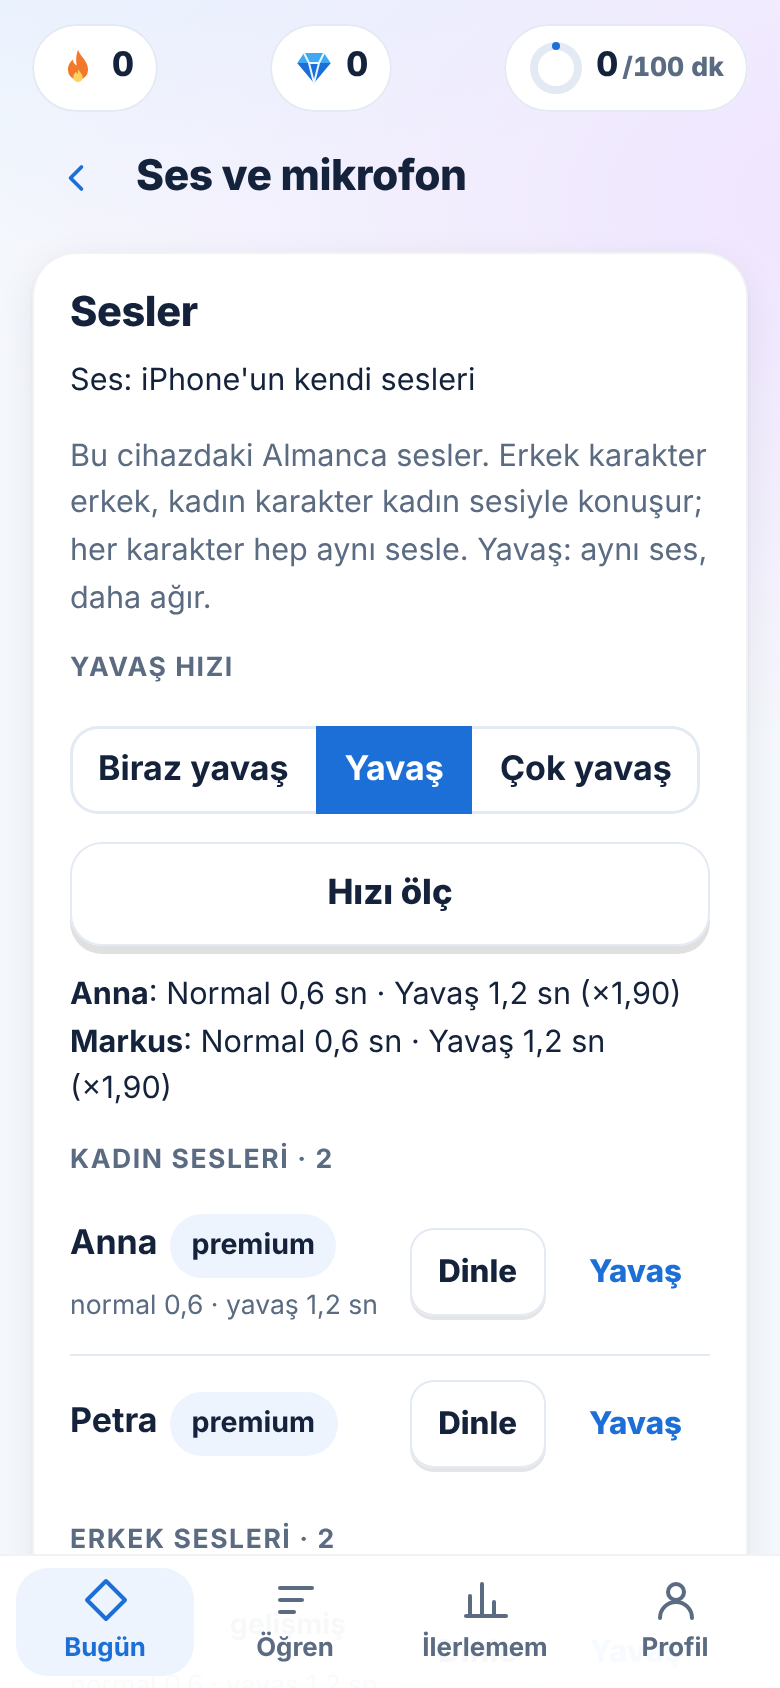
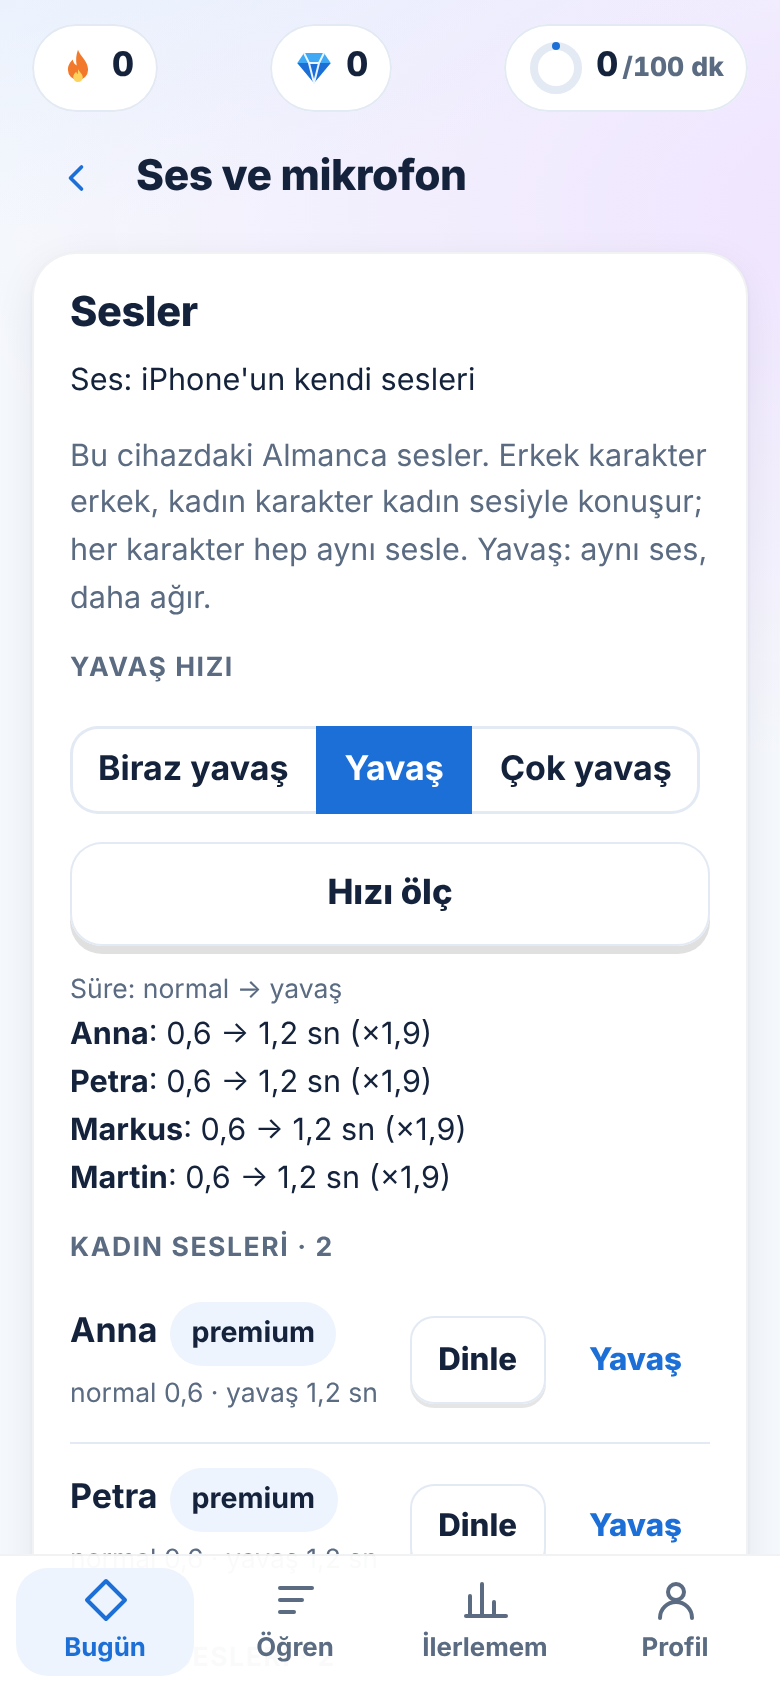
Ses ve mikrofon: ölçüm satırı kısa ve tek satır ('Markus: 0,6 → 1,2 sn (×1,9)'), başlıkta bir kez 'normal → yavaş' (PM 7044942991); iki yol aynı biçim
Claude-Session: https://claude.ai/code/session_016gishG3oMjbKiLi4Fij94B

diff --git a/web/src/screens/SesDeneme.tsx b/web/src/screens/SesDeneme.tsx
@@ -18,7 +18,7 @@ import { kabukBilgisi, kabukSatiri, type KabukBilgisi } from "../services/kabuk.
 const ORNEK = "Guten Morgen! Ich hätte gern einen Termin am Montag.";
 
 const sn = (ms: number) => `${(ms / 1000).toFixed(1).replace(".", ",")} sn`;
-const kat = (x: number) => `×${x.toFixed(2).replace(".", ",")}`;
+const kat = (x: number) => `×${x.toFixed(1).replace(".", ",")}`;
 const kisaAd = (n: string) => n.replace(/\s*\(.*\)$/, "");
 const sesNesnesi = (s: Ses) => sesBul(s);
 type Kayit = Record<string, HizOlcum>;
@@ -81,7 +81,9 @@ function HizOlcumu({ hedef, kayit, kaydet }: { hedef: Ses[]; kayit: Kayit; kayde
       <button class="btn block" disabled={olcuyor || !hedef.length} onClick={() => void olc()} data-test="hiz-olc">{olcuyor ? "Ölçülüyor…" : "Hızı ölç"}</button>
       {/* ölçüm sürerken yarım satır gösterilmez; sonuçlar düğmeden bir satır aşağıda (PM 7043447488-1, 2) */}
       {!olcuyor && (olculen.length > 0 || olculemedi.length > 0) && <div class="hiz-sonuclar" style={{ marginTop: 12 }}>
-        {olculen.filter((s) => !olculemedi.includes(sesAnahtar(s))).map((s) => { const o = kayit[sesAnahtar(s)]!; return <p class="small" style={{ margin: 0 }} data-test="hiz-sonuc" data-ad={s.name}><b>{kisaAd(s.name)}</b>: Normal {sn(o.normalMs)} · Yavaş {sn(o.yavasMs)} ({kat(hizOrani(o))})</p>; })}
+        {/* PM 7044942991: biçim kısa ve tek satır; başlık bir kez */}
+        <p class="tiny muted" style={{ margin: 0 }} data-test="hiz-baslik">Süre: normal → yavaş</p>
+        {olculen.filter((s) => !olculemedi.includes(sesAnahtar(s))).map((s) => { const o = kayit[sesAnahtar(s)]!; return <p class="small" style={{ margin: 0, whiteSpace: "nowrap" }} data-test="hiz-sonuc" data-ad={s.name}><b>{kisaAd(s.name)}</b>: {sn(o.normalMs).replace(" sn", "")} → {sn(o.yavasMs)} ({kat(hizOrani(o))})</p>; })}
         {hedef.filter((s) => olculemedi.includes(sesAnahtar(s))).map((s) => <p class="small" style={{ margin: 0 }} data-test="hiz-olculemedi" data-ad={s.name}><b>{kisaAd(s.name)}</b>: ölçülemedi, yeniden dene.</p>)}
       </div>}
       {!olcuyor && yavaslamayan.length > 0 && <p class="small fb-uyari" role="alert" data-test="hiz-uyari">Bu ses yavaşlamıyor: {yavaslamayan.map((s) => kisaAd(s.name)).join(", ")}. Yavaş istenince yavaşlayan başka bir ses, o da yoksa kelime kelime okuma kullanılır.</p>}

diff --git a/tests/e2e/v2_ses.py b/tests/e2e/v2_ses.py
@@ -80,18 +80,20 @@ def main():
         pg.wait_for_function("() => { const b = document.querySelector('[data-test=hiz-olc]'); return b && !b.disabled && document.querySelectorAll('[data-test=hiz-sonuc]').length >= 4; }", timeout=20_000)
         ara = pg.evaluate("() => { const b = document.querySelector('[data-test=hiz-olc]').getBoundingClientRect(); const r = document.querySelector('[data-test=hiz-sonuc]').getBoundingClientRect(); return Math.round(r.top - b.bottom); }")
         check(ara >= 10, f"sonuç satırları düğmeden ayrık (aralık {ara} px)")
+        tek = pg.evaluate("() => [...document.querySelectorAll('[data-test=hiz-sonuc]')].map((p) => { const lh = parseFloat(getComputedStyle(p).lineHeight); return [Math.round(p.getBoundingClientRect().height / lh), p.scrollWidth <= p.parentElement.clientWidth + 0.5]; })")
+        check(all(n == 1 and sig for n, sig in tek), f"sonuç satırları tek satır, taşmıyor; başlıkta bir kez 'normal → yavaş' ({tek}; {pg.inner_text('[data-test=hiz-baslik]')})")
         check(pg.evaluate("window.__oku.length") == 8, f"ölçüm her cinsten ilk iki sesi normal ve yavaş çaldı ({pg.evaluate('window.__oku.length')} çalma)")
         sonuc = {e["ad"]: e["t"] for e in pg.locator("[data-test=hiz-sonuc]").evaluate_all("(xs) => xs.map((x) => ({ ad: x.dataset.ad, t: x.innerText }))")}
-        check(set(sonuc) == {"Helena (Erweitert)", "Anna", "Viktor (Erweitert)", "Markus"} and all(re.search(r"Normal \d+,\d sn · Yavaş \d+,\d sn \(×\d,\d\d\)", t) for t in sonuc.values()), f"ölçüm: kadın ve erkek havuzunun ilk iki sesi, 'Normal x sn · Yavaş y sn' ({list(sonuc.values())})")
-        KAT = lambda t: float(re.search(r"×(\d,\d\d)", t).group(1).replace(",", ".")) if re.search(r"×(\d,\d\d)", t) else 0
-        check("Normal 0,6 sn" in sonuc.get("Viktor (Erweitert)", "") and KAT(sonuc.get("Helena (Erweitert)", "")) >= 1.6 and 0.85 <= KAT(sonuc.get("Viktor (Erweitert)", "")) < 1.25, f"yavaşlayan ses ≈1,9 kat, yavaşlamayan ≈1,0 kat ölçülüyor ({[KAT(t) for t in sonuc.values()]})")
+        check(set(sonuc) == {"Helena (Erweitert)", "Anna", "Viktor (Erweitert)", "Markus"} and all(re.fullmatch(r"\S+: \d+,\d → \d+,\d sn \(×\d,\d\)", t.strip()) for t in sonuc.values()), f"ölçüm: kadın ve erkek havuzunun ilk iki sesi, 'Ad: x → y sn (×k)' ({list(sonuc.values())})")
+        KAT = lambda t: float(re.search(r"×(\d,\d)", t).group(1).replace(",", ".")) if re.search(r"×(\d,\d)", t) else 0
+        check("0,6 → 0,6 sn" in sonuc.get("Viktor (Erweitert)", "") and KAT(sonuc.get("Helena (Erweitert)", "")) >= 1.6 and 0.85 <= KAT(sonuc.get("Viktor (Erweitert)", "")) < 1.25, f"yavaşlayan ses ≈1,9 kat, yavaşlamayan ≈1,0 kat ölçülüyor ({[KAT(t) for t in sonuc.values()]})")
         uy = pg.inner_text("[data-test=hiz-uyari]") if pg.locator("[data-test=hiz-uyari]").count() else ""
         check(uy.startswith("Bu ses yavaşlamıyor: Viktor") and "Helena" not in uy, f"yalnız yavaşlamayan ses için uyarı ({uy[:60]})")
         check("yavaşlamıyor" in pg.locator("[data-test=havuz-erkek] [data-test=ses]").first.inner_text() and "yavaşlamıyor" not in pg.locator("[data-test=havuz-kadin] [data-test=ses]").first.inner_text(), "ses satırında ölçüm ve 'yavaşlamıyor' işareti")
         satir_hiz = pg.locator("[data-test=havuz-kadin] [data-test=ses-hiz]").first.inner_text()
         check(re.fullmatch(r"normal \d+,\d · yavaş \d+,\d sn", satir_hiz) is not None, f"ses satırında hangisinin ne olduğu yazılı ({satir_hiz})")
         kab = pg.inner_text("[data-test=kabuk-satir]")
-        check(re.search(r"yavaş: Helena ×\d,\d\d, Anna ×\d,\d\d, Viktor ×\d,\d\d yavaşlamıyor, Markus ×\d,\d\d$", kab) is not None, f"kabuk satırına yavaş notu ({kab[-60:]})")
+        check(re.search(r"yavaş: Helena ×\d,\d, Anna ×\d,\d, Viktor ×\d,\d yavaşlamıyor, Markus ×\d,\d$", kab) is not None, f"kabuk satırına yavaş notu ({kab[-60:]})")
         if shots: pg.locator("[data-test=hiz-olcum]").scroll_into_view_if_needed(); shot(pg, f"s00-hiz-olcum-{TEMA}", full=False)
         no_overflow(pg, "hız ölçümü")
         pg.locator("[data-test=yavas-oran] button[data-oran='0.4']").click(); pg.wait_for_timeout(300)
@@ -210,7 +212,7 @@ def main():
         pg.wait_for_function("() => { const b = document.querySelector('[data-test=hiz-olc]'); return b && !b.disabled && document.querySelectorAll('[data-test=hiz-sonuc]').length >= 2; }", timeout=15_000)
         rates = sorted({round(x["rate"], 2) for x in pg.evaluate("window.__tts")})
         sonuc3 = pg.locator("[data-test=hiz-sonuc]").all_inner_texts()
-        check(rates == [0.5, 0.95] and all("Yavaş" in x for x in sonuc3) and pg.locator("[data-test=hiz-uyari]").count() == 0, f"yerel yolda hız ölçümü: gerçek hız, yavaşlıyor ({rates}; {sonuc3})")
+        check(rates == [0.5, 0.95] and all("→" in x for x in sonuc3) and pg.locator("[data-test=hiz-uyari]").count() == 0, f"yerel yolda hız ölçümü: gerçek hız, yavaşlıyor ({rates}; {sonuc3})")
         if shots: pg.locator("[data-test=ses-deneme]").scroll_into_view_if_needed(); shot(pg, f"s03-yerel-{TEMA}", full=False)
         b.close()
     srv.shutdown()
